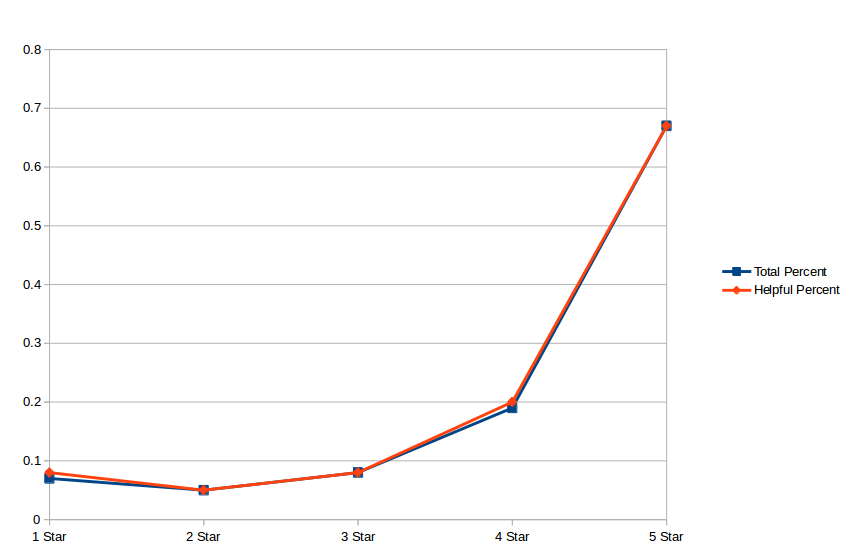
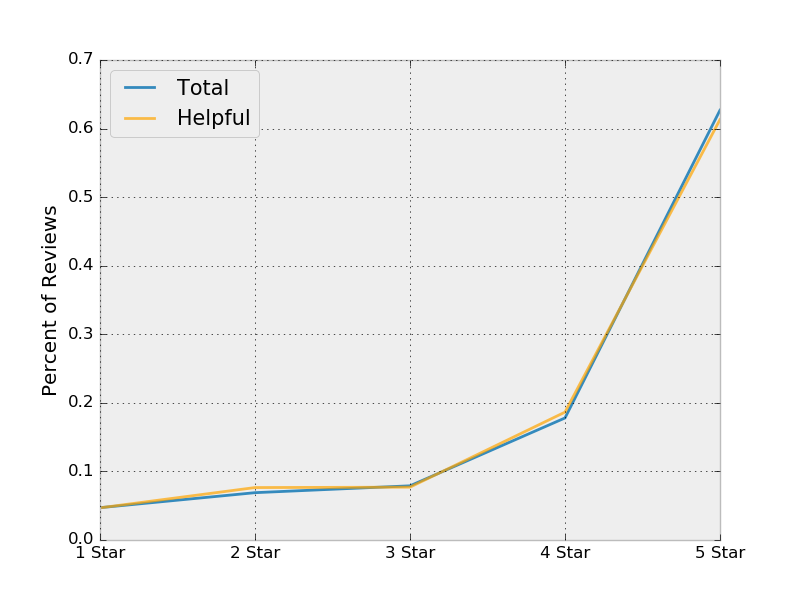
Updating some of the figures in the report.

diff --git a/report/report.tex b/report/report.tex
@@ -34,7 +34,7 @@ A user submitted review on Amazon has several components. The first is a star ra
 When examine user reviews it's useful to know how they are distributed. Before starting this project my expectation was something like a smile, peaks at 1 and 5, valley at 3. The actualy distribution is a little surprising:
 
 \begin{center}
-    \includegraphics[scale=0.25]{score_histogram.png}
+    \includegraphics[scale=0.60]{score_histogram.png}
 \end{center}
 
 As we can see the reviews are intensily skewed towards 5 star reviews. In fact they make up around \textbf{42\%} of all reviews on Amazon. This distribution gives the average score of an amazon review as \textbf{4.16}, much higher than I had anticipated. However this does not mean that the average product score is 4.16, it's possible than a large number of the 5-star reviews go to the same sub-group of products, so it's worthwhile to investigate the distribution of average product review scores:
@@ -68,7 +68,7 @@ What we see here is around \textbf{53\%} of products with over five reviews will
 \section*{Helpfulness}
 Amazon allows users to mark whether they found a review helpful or not, giving each review a helpfulness score. This score is used to pick between 1 and 8 reviews to highlight and be shown on a products page. I wondered how the distribution of reviews Amazon chose to show on a products main page compared to the total reviews for the product. Unfortunately this data was not in my origin dataset, so I had to do some additional processing. I picked 2000 items at random, and retrieved the reviews Amazon displayed for them. I also retrieved each products overall count of reviews for each star rating. I compare the distribution of shown helpful reviews and total reviews here:
 \begin{center}
-    \includegraphics[scale=0.3]{helpfulness.png}
+    \includegraphics[scale=0.6]{helpfulness.png}
 \end{center}
 As we can see, they are essentially the same. This can be taken as a good thing or a bad thing. The good aspect is that the \enquote{helpful} reviews don't inflate the perception of all the reviews for the product, they are fair representation of the rest of the reviews. The bad part is they dont inflate the reviews because the reviews were already inflated. If you randomly sampled reviews you'd see the same thing. And according to previous research, that's essentially what you're doing. In 2009, Bing Liu from the University of Illinois did a study on spam in Amazon reviews. He developed a model that could predict spam to an 80\% accuracy. He analyzed the spammy-ness of reviews with high helpfulness scores to reviews with low helpfulness scores and found \textbf{no difference}. And this makes sense, how easy is it to mark a review as heplful? How easy would it be to game that system? (not to mention how reviews with a high number of helpful points are more visible and thus more likely to get more helpful votes)
 

diff --git a/draw/draw_overall_histogram.py b/draw/draw_overall_histogram.py
@@ -4,7 +4,6 @@ import matplotlib.pyplot as pyplot
 def main():
     input_filepath = sys.argv[1]
     min_count = int(sys.argv[2]) if len(sys.argv) >= 3 else -1
-    num_bins = int(sys.argv[3]) if len(sys.argv) >= 4 else 25
 
     overalls = []
     with open(input_filepath) as input_file:
@@ -16,14 +15,17 @@ def main():
                 if count > min_count:
                     overalls.append(overall)
 
-    if False:
-        pyplot.hist(overalls, num_bins)
-    else:
-        # buckets should be open except for last one, i.e. the first bucket is 1 <= val < 1.25
-        bins=[1, 1.25, 1.75, 2.25, 2.75, 3.25, 3.75, 4.25, 4.75, 5.25]
-        res = pyplot.hist(overalls, bins=bins)
-        print res
 
+
+    pyplot.style.use('bmh')
+    # buckets should be open except for last one, i.e. the first bucket is 1 <= val < 1.25
+    bins=[1, 1.25, 1.75, 2.25, 2.75, 3.25, 3.75, 4.25, 4.75, 5.25]
+    res = pyplot.hist(overalls, bins=bins, color="#348ABD")
+    print res
+
+
+    pyplot.ylabel('Count')
+    pyplot.xlabel('Product Average Score (where product has > 5 reviews)')
     pyplot.show()
 
 if __name__ == "__main__":

diff --git a/draw/draw_helpfulness.py b/draw/draw_helpfulness.py
@@ -1,0 +1,41 @@
+import sys, matplotlib
+import matplotlib.pyplot as pyplot
+
+RESULTS_TOTAL = {
+    1: 5949,
+    2: 8709,
+    3: 9971,
+    4: 22458,
+    5: 79105
+}
+
+RESULTS_HELPFUL = {
+    1: 568,
+    2: 926,
+    3: 933,
+    4: 2258,
+    5: 7424
+}
+
+def main():
+    total_total = float(sum(RESULTS_TOTAL.values()))
+    total_percent = dict([(s, RESULTS_TOTAL[s] / total_total) for s in RESULTS_TOTAL])
+    helpful_total = float(sum(RESULTS_HELPFUL.values()))
+    helpful_percent = dict([(s, RESULTS_HELPFUL[s] / helpful_total) for s in RESULTS_HELPFUL])
+
+    pyplot.style.use('bmh')
+
+    pyplot.plot(total_percent.keys(), total_percent.values(), '-', alpha=1, label="Total")
+    pyplot.plot(helpful_percent.keys(), helpful_percent.values(), '-', alpha=0.7, label="Helpful", color="orange")
+
+    ax = pyplot.gca()
+    ax.set_xticks(RESULTS_TOTAL.keys())
+    ax.set_xticklabels(map(lambda i: "%i Star" % (i), RESULTS_TOTAL.keys()))
+
+    pyplot.ylabel('Percent of Reviews')
+    pyplot.legend(prop={'size': 15}, loc=2)
+
+    pyplot.show()
+
+if __name__ == "__main__":
+    main()

diff --git a/draw/draw_score_histogram.py b/draw/draw_score_histogram.py
@@ -1,0 +1,27 @@
+import sys, matplotlib
+import matplotlib.pyplot as pyplot
+
+RESULTS = {
+    1: 6757694,
+    2: 4286384,
+    3: 7073655,
+    4: 15509942,
+    5: 49208827
+}
+
+def main():
+    pyplot.style.use('bmh')
+
+    pyplot.bar(RESULTS.keys(), RESULTS.values(), color="#348ABD", label='Stuff', align='center')
+
+    pyplot.xticks(RESULTS.keys())
+    ax = pyplot.gca()
+    ax.get_yaxis().get_major_formatter().set_scientific(False)
+    pyplot.ylabel('Number of Reviews')
+    pyplot.xlabel('Overall Score')
+
+
+    pyplot.show()
+
+if __name__ == "__main__":
+    main()
